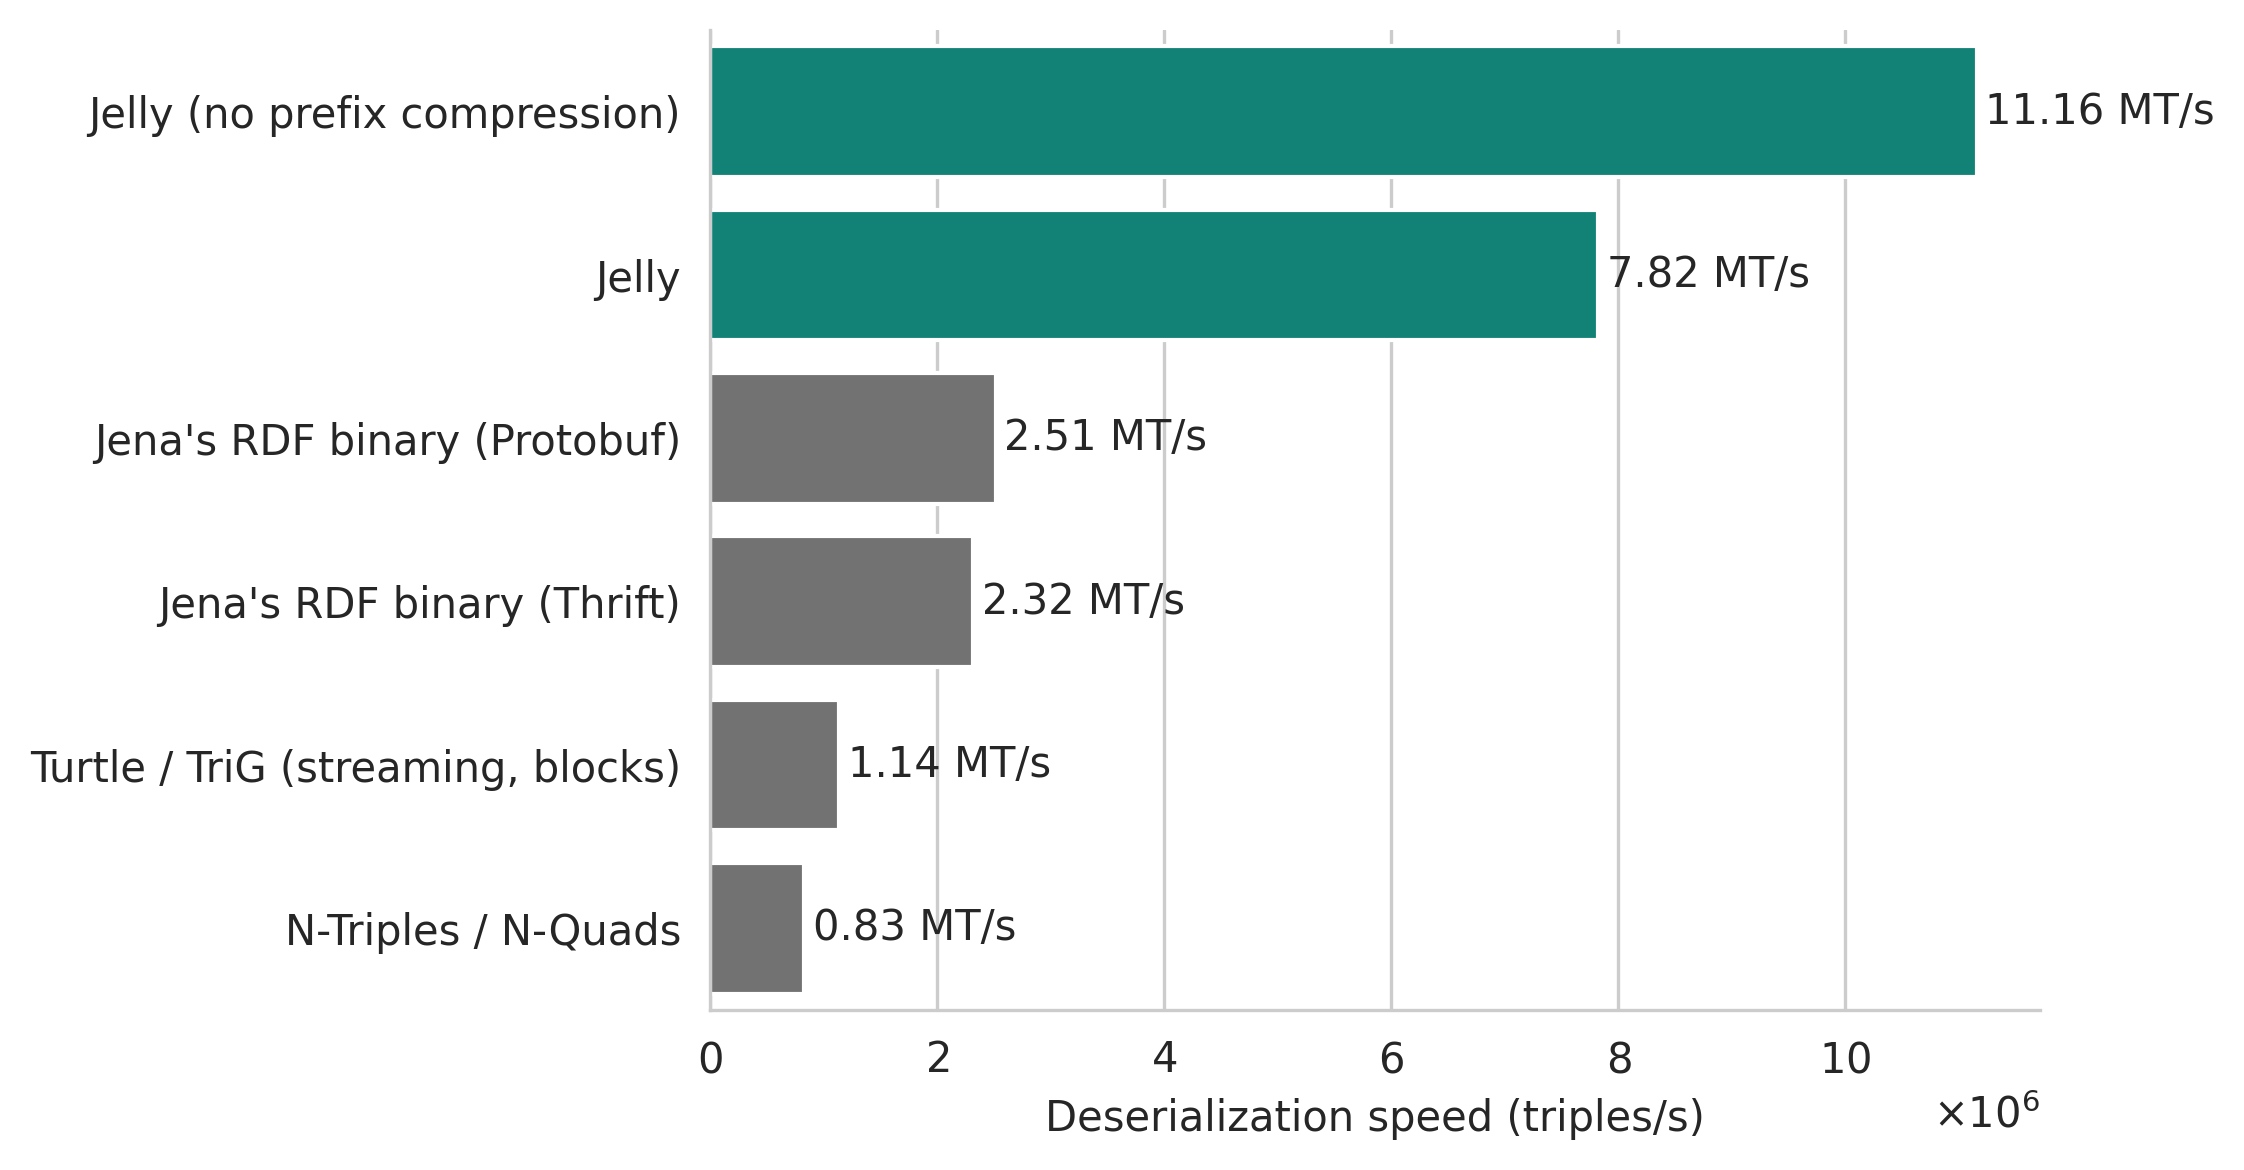
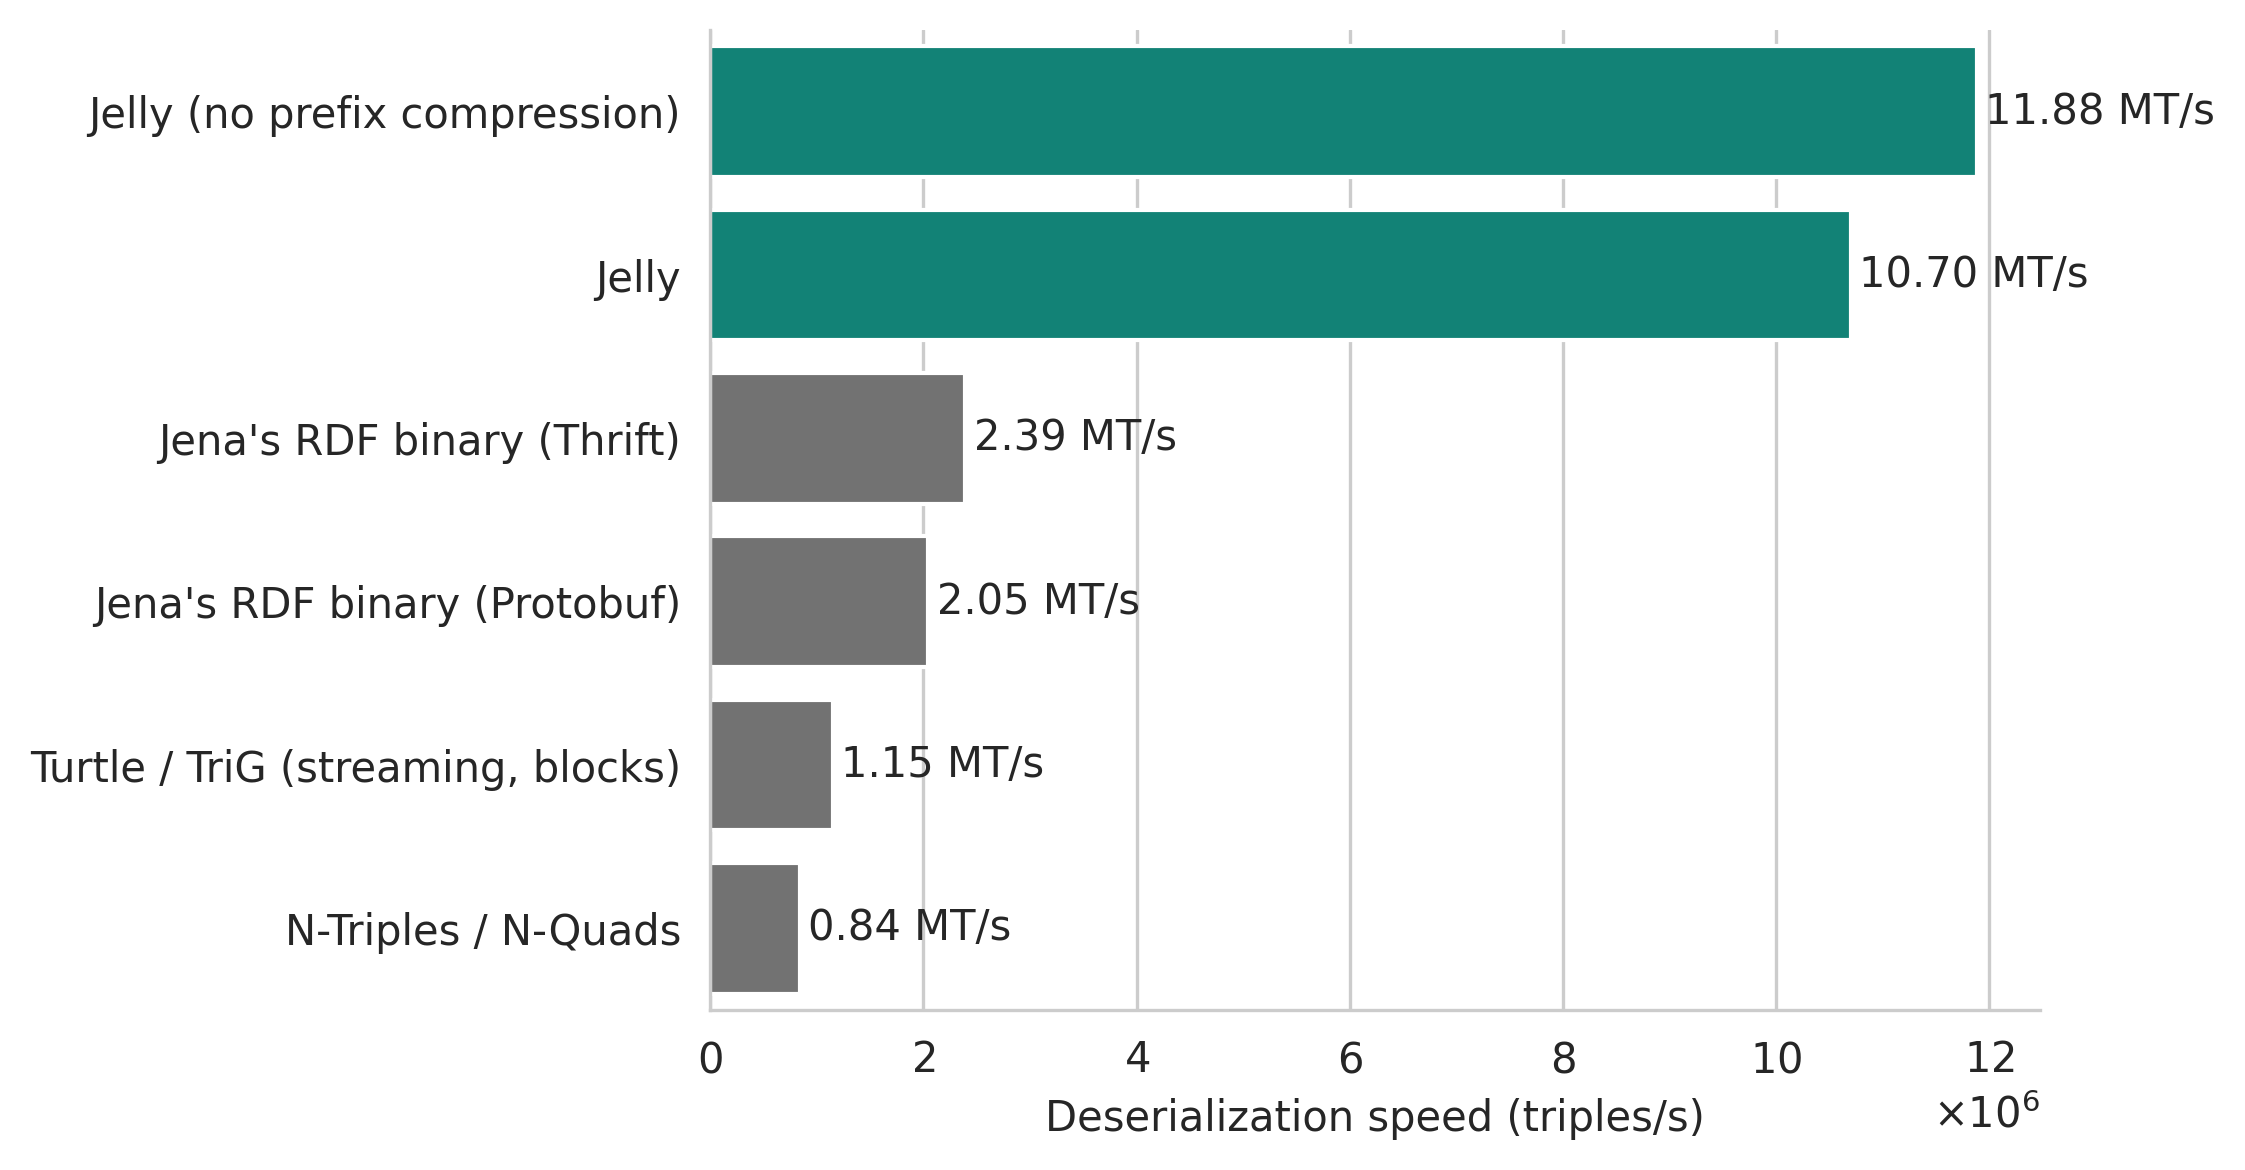
Update performance results (#15)
These results fix a few issues with the previous benchmark. It was also done on a newer version of Apache Jena, which has some optimizations to its IRI caching algorithm, positively impacting performance of the compared methods.

diff --git a/docs/performance.md b/docs/performance.md
@@ -15,29 +15,29 @@ If you are only interested in parsing/writing a single graph or dataset, look at
 
 All benchmarks presented here were performed using the [RiverBench benchmark suite, version 2.1.0](https://w3id.org/riverbench/v/2.1.0). Out of the 13 used datasets (all datasets available in RiverBench 2.1.0), 1 used RDF-star, and 3 included RDF quads/datasets. You can find the links to the specific used RiverBench profiles and tasks in the results below.
 
-The benchmarks were executed using [this code (Apache 2.0)](https://github.com/Jelly-RDF/jvm-benchmarks/tree/88d936a87d0dcd9f7fb5f3dc98af7d4c270711e9) in a JVM with options: `-Xms1G -Xmx32G`. The large heap size was necessary to fit the benchmark data in memory, making the benchmark independent of disk I/O.
+The benchmarks were executed using [this code (Apache 2.0 license)](https://github.com/Jelly-RDF/jvm-benchmarks/tree/b3cd58b437292080d84fa91a92da2cf4b701f0aa) in a JVM with options: `-Xms1G -Xmx32G`. The large heap size was necessary to fit the benchmark data in memory, making the benchmark independent of disk I/O.
 
 Hardware: AMD Ryzen 9 7900 (12-core, 24-thread, 5.0 GHz); 64 GB RAM (DDR5 5600 MT/s). The disk was not used during the benchmarks (all data was in memory). The throughput benchmarks are single-threaded, but the JVM was allowed to use all available cores for garbage collection, JIT compilation, and other tasks.
 
-Software: Linux kernel 6.8.12, Oracle GraalVM 22.0.2+9, Apache Jena 5.0.0, [Jelly-JVM]({{ jvm_link() }}) 0.14.2 (equivalent to Jelly-JVM 1.0.0).
+Software: Linux kernel 6.10.11, Oracle GraalVM 23.0.1+11.1, Apache Jena 5.2.0, [Jelly-JVM]({{ jvm_link() }}) 2.2.1.
 
 ### Tested methods
 
-- W3C RDF/XML (Apache Jena 5.0.0, `RDFXML_PLAIN`)
-- W3C N-Triples / N-Quads (Apache Jena 5.0.0, `NTRIPLES` and `NQUADS`)
-- W3C JSON-LD (Apache Jena 5.0.0, `JSONLD_PLAIN`)
-- W3C Turtle / TriG (Apache Jena 5.0.0)
+- W3C RDF/XML (Apache Jena 5.2.0, `RDFXML_PLAIN`)
+- W3C N-Triples / N-Quads (Apache Jena 5.2.0, `NTRIPLES` and `NQUADS`)
+- W3C JSON-LD (Apache Jena 5.2.0, `JSONLD_PLAIN`)
+- W3C Turtle / TriG (Apache Jena 5.2.0)
     - In grouped streaming, the default (`TURTLE_PRETTY` and `TRIG_PRETTY`) Turtle/TriG variant was used. 
     - In flat streaming, the `TURTLE_BLOCKS` and `TRIG_BLOCKS` variant was used. See [Jena's documentation on streaming writers for more details](https://jena.apache.org/documentation/io/streaming-io.html).
-- [Jena's RDF binary](https://jena.apache.org/documentation/io/rdf-binary.html) Protobuf format (Apache Jena 5.0.0, `RDF_PROTO`)
-- [Jena's RDF binary](https://jena.apache.org/documentation/io/rdf-binary.html) Thrift format (Apache Jena 5.0.0, `RDF_THRIFT`)
-- Jelly (Jelly-JVM 0.14.2, "big" preset)
+- [Jena's RDF binary](https://jena.apache.org/documentation/io/rdf-binary.html) Protobuf format (Apache Jena 5.2.0, `RDF_PROTO`)
+- [Jena's RDF binary](https://jena.apache.org/documentation/io/rdf-binary.html) Thrift format (Apache Jena 5.2.0, `RDF_THRIFT`)
+- Jelly (Jelly-JVM 2.2.1, "big" preset)
     ```protobuf
     max_name_table_size = 4000;
     max_prefix_table_size = 150;
     max_datatype_table_size = 32;
     ```
-- Jelly without prefix compression (Jelly-JVM 0.14.2, "big" preset with prefix table disabled)
+- Jelly without prefix compression (Jelly-JVM 2.2.1, "big" preset with prefix table disabled)
     ```protobuf
     max_name_table_size = 4000;
     max_prefix_table_size = 0;  // Prefix table disabled
@@ -82,7 +82,7 @@ Note that the results for the equivalent flat streaming task ([`flat-compression
   <figcaption markdown style="max-width: 100%;">Serialization speed of a stream of RDF triples or quads, averaged over all datasets.</figcaption>
 </figure>
 
-Jelly achieves very similar results to Jena's binary formats here. However, it should be noted that the Jena formats feature no compression at all, and Jelly is much more compact (see [serialized size](#serialized-size)).
+Jelly comparable results to Jena's binary formats and N-Triples/N-Quads here. However, it should be noted that the Jena formats feature no compression at all, and Jelly is much more compact (see [serialized size](#serialized-size)).
 
 ### Flat streaming deserialization throughput
 
@@ -110,6 +110,18 @@ Jelly achieves very similar results to Jena's binary formats here. However, it s
   <figcaption markdown style="max-width: 100%;">Serialization speed of a stream of RDF graphs or RDF datasets, averaged over all datasets.<br>* Partial results for RDF/XML and JSON-LD (some datasets not supported).</figcaption>
 </figure>
 
+### Grouped streaming deserialization throughput
+
+- RiverBench task: [`stream-deserialization-throughput` (2.1.0)](https://w3id.org/riverbench/v/2.1.0/tasks/stream-deserialization-throughput)
+- RiverBench profile: [`stream-mixed-rdfstar` (2.1.0)](https://w3id.org/riverbench/v/2.1.0/profiles/stream-mixed-rdfstar)
+- The first 100,000 stream elements of each dataset were used for this benchmark.
+- Each method/dataset combination was run 15 times, the first 5 runs were discarded to account for JVM warmup, and the remaining 10 runs were averaged.
+- Before running the benchmark, the data was serialized to a list of byte arrays (one array per stream element) and then deserialized from it. The deserializer was emitting only a stream of triples/quads, without any further processing.
+
+<figure markdown="span">
+  ![Deserialization speed bar plot](assets/benchmarks/grouped_des.png){ width="100%" }
+  <figcaption markdown style="max-width: 100%;">Deserialization (parsing) speed of a stream of RDF graphs or RDF datasets, averaged over all datasets.<br>* Partial results for RDF/XML and JSON-LD (some datasets not supported).</figcaption>
+</figure>
 
 ## See also
 

diff --git a/docs/index.md b/docs/index.md
@@ -46,19 +46,17 @@
 
 *Fast.* Jelly was specifically designed to serialize and deserialize streams of RDF data faster than N-Triples or other binary formats, while being [more compact than Turtle](performance.md#serialized-size).
 
-The benchmarks below were performed on streams of RDF graphs or datasets, but Jelly is also good at handling streams of triples or quads ("classic" serialization). See: **[more benchmark results and details about the benchmark setup](performance.md)**.
+The benchmarks below were performed on streams of RDF graphs or datasets, but Jelly is also good at handling streams of triples or quads ("classic" serialization). The benchmark was performed with Jelly-JVM 2.2.1 with Apache Jena 5.2.0. See: **[more benchmark results and details about the benchmark setup](performance.md)**.
 
 <figure markdown="span">
   ![Serialization speed bar plot](assets/benchmarks/grouped_ser.png){ width="100%" }
   <figcaption markdown style="max-width: 100%;">Serialization speed of a stream of RDF graphs or RDF datasets, averaged over 13 datasets (RiverBench 2.1.0 profile [`stream-mixed-rdfstar`](https://w3id.org/riverbench/v/2.1.0/profiles/stream-mixed-rdfstar), task [`stream-serialization-throughput`](https://w3id.org/riverbench/v/2.1.0/tasks/stream-serialization-throughput)).<br>* Partial results for RDF/XML and JSON-LD (some datasets not supported).<br>[More details about the benchmark](performance.md).</figcaption>
 </figure>
 
-<!--
 <figure markdown="span">
   ![Deserialization speed bar plot](assets/benchmarks/grouped_des.png){ width="100%" }
   <figcaption markdown style="max-width: 100%;">Deserialization (parsing) speed of a stream of RDF graphs or RDF datasets, averaged over 13 datasets (RiverBench 2.1.0 profile [`stream-mixed-rdfstar`](https://w3id.org/riverbench/v/2.1.0/profiles/stream-mixed-rdfstar), task [`stream-deserialization-throughput`](https://w3id.org/riverbench/v/2.1.0/tasks/stream-deserialization-throughput)).<br>* Partial results for RDF/XML and JSON-LD (some datasets not supported).<br>[More details about the benchmark](performance.md).</figcaption>
 </figure>
--->
 
 ## See also
 
